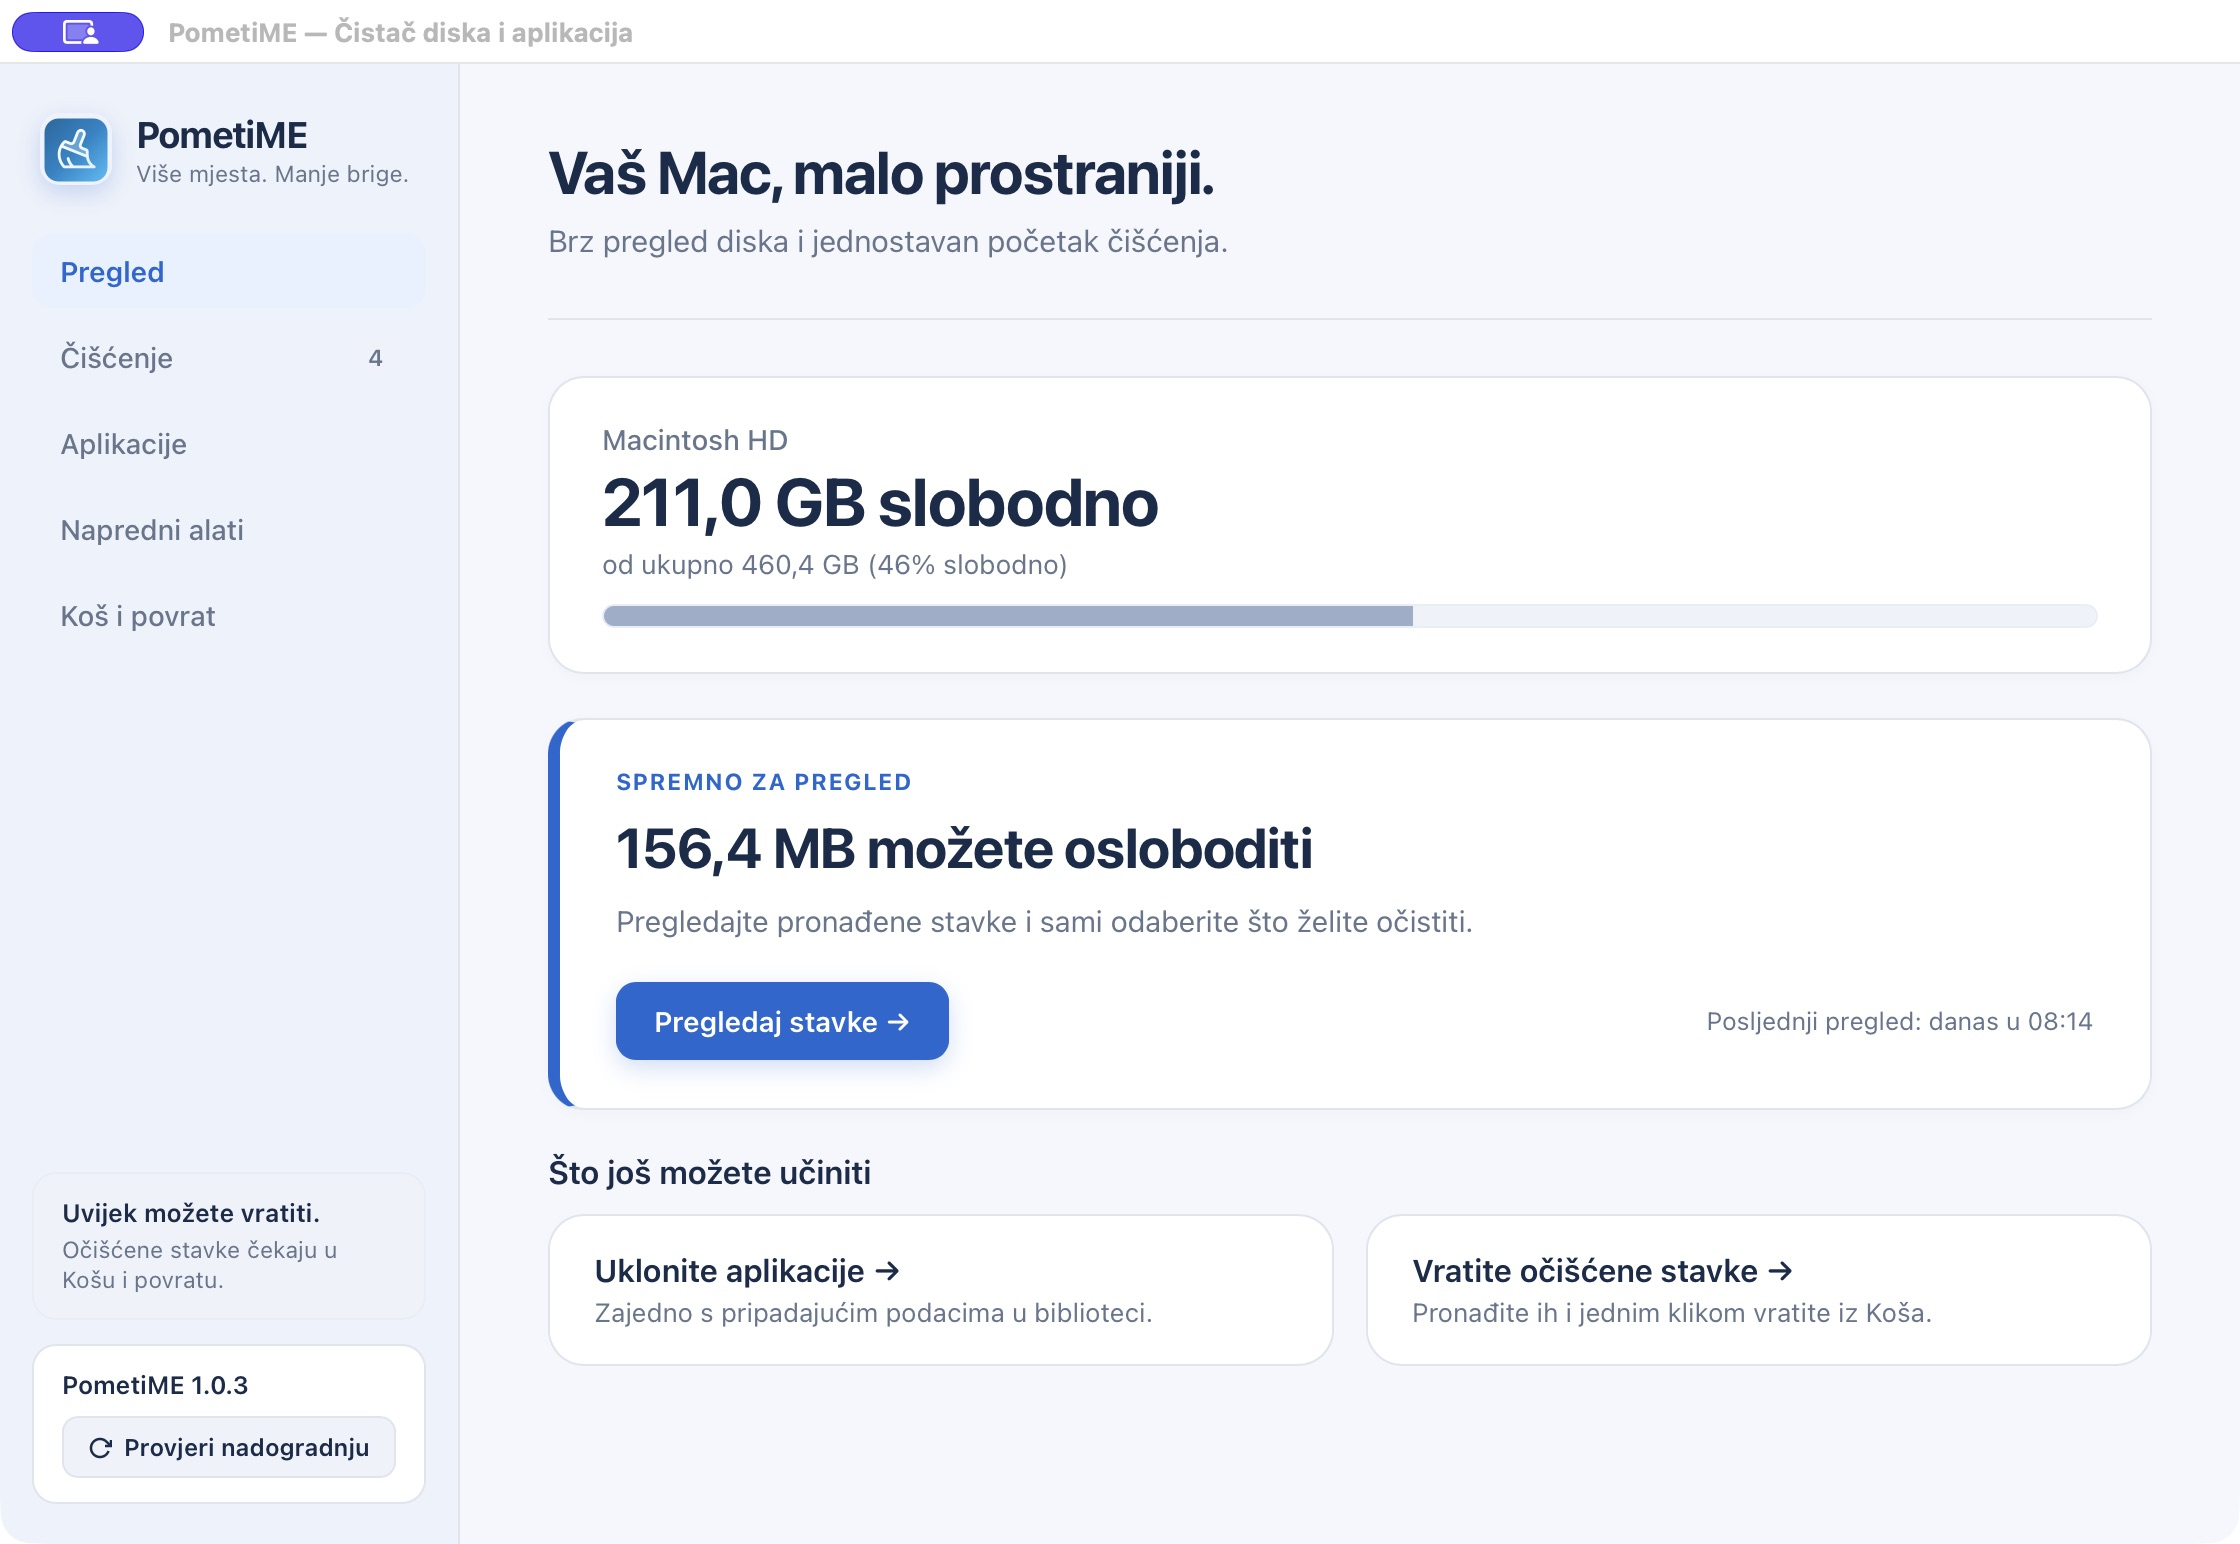
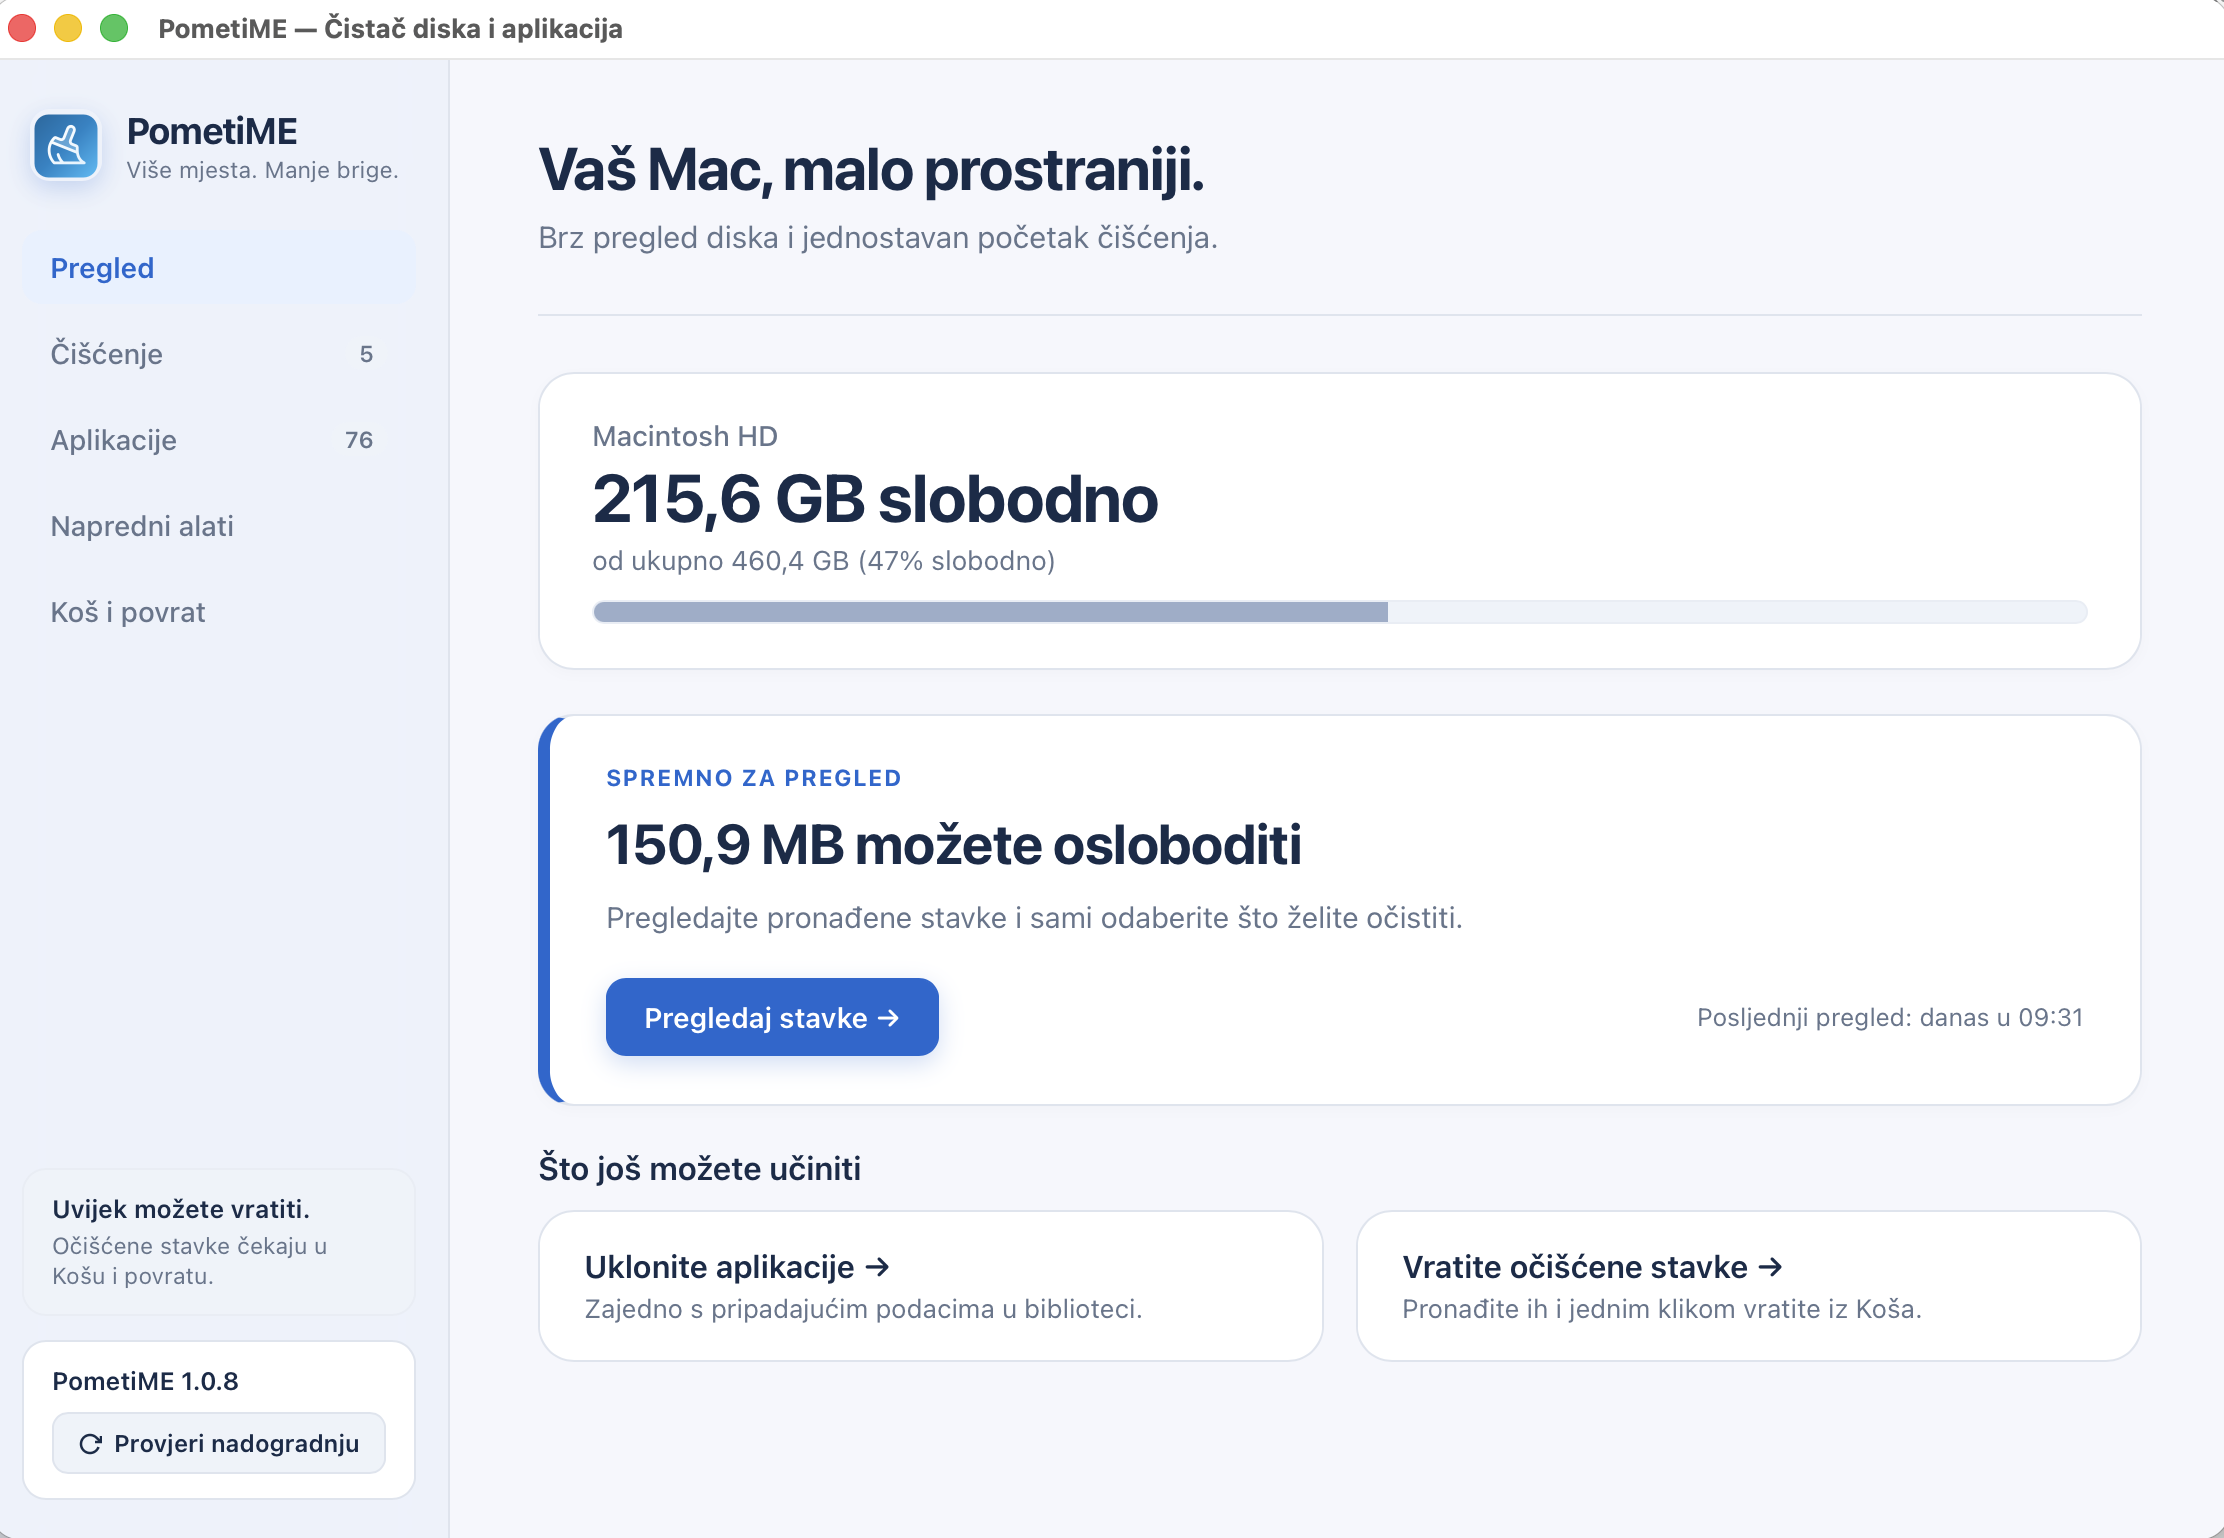
Osvježi README snimkama aplikacije 1.0.8

diff --git a/README.md b/README.md
@@ -6,9 +6,9 @@
 
 Sve što se očisti prvo ide u **Koš za smeće** (`~/.Trash`), pa ako vam bilo što ikad ponovno zatreba, možete to vratiti jednim klikom.
 
-![PometiME — najnovije sučelje aplikacije, pregled diska i preporučeno čišćenje](docs/screenshot.png)
+![PometiME 1.0.8 — pregled diska i preporučeno čišćenje](docs/screenshot.png)
 
-*Snimka pokrenute aplikacije od 8. studenoga 2026. Prikazane veličine ovise o stanju diska.*
+*Snimka pokrenute aplikacije PometiME 1.0.8 od 8. studenoga 2026. Prikazane veličine ovise o stanju diska.*
 
 ## Kako radi
 
@@ -27,7 +27,7 @@ Sučelje je podijeljeno na pet jednostavnih cjelina:
 
 Sučelje koristi plave naglaske, izvornu ikonicu četke i usklađene SVG ikonice naprednih alata. Podržava svijetli i tamni izgled te kratke prijelaze uz postavke smanjenog kretanja i prozirnosti.
 
-![PometiME — instalirane aplikacije s izvornim macOS ikonicama](docs/redizajn_aplikacije.png)
+![PometiME 1.0.8 — izvorne ikonice aplikacija, gumb Ukloni i pregled pripadajućih podataka](docs/redizajn_aplikacije.png)
 
 ## Sigurnost na prvom mjestu
 
